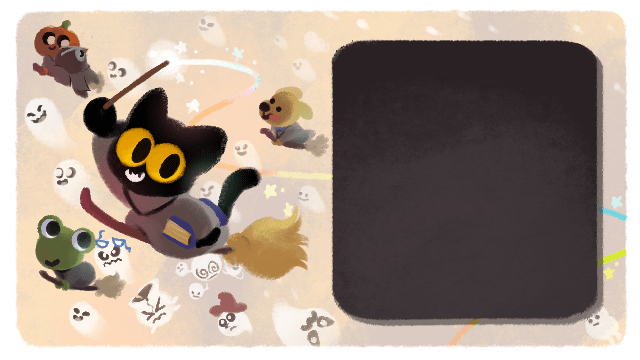
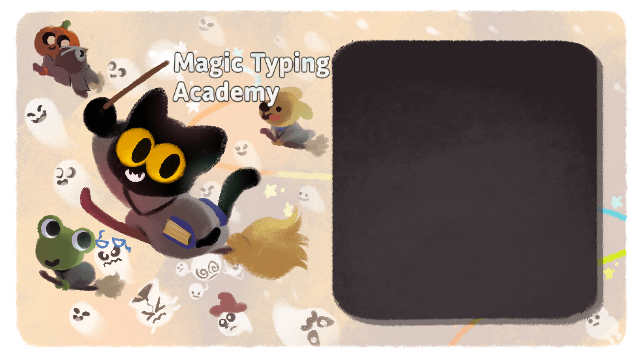
프로젝트 완성

Changed region(s): [[0.25, 0.1222, 0.5312, 0.3056]]

diff --git a/src/GamePanel.java b/src/GamePanel.java
@@ -45,7 +45,6 @@ public class GamePanel extends JPanel {
         private ImageIcon lv3Icon = new ImageIcon("images/level3.png");
         private Image level3 =lv3Icon.getImage();
         private Image currentStage;
-        private JLabel criticalLineLabel= new JLabel("크리티컬 라인");
         EntityPanel player = new EntityPanel(true);
         EntityPanel boss = new EntityPanel(false);
 
@@ -54,21 +53,11 @@ public class GamePanel extends JPanel {
         public GroundPanel() {
             this.setBackground(Color.WHITE);
             this.setLayout(null); //레이아웃 없이 배치
-            JLabel scoreLabel = scoreManager.getScoreLabel(); // 점수를 표시할 레이블 받아오기
-            // 위치, 크기 설정
-            scoreLabel.setLocation(GameFrame.frameWidth-50, 10);
-            scoreLabel.setSize(100, 30);
-
-            criticalLineLabel.setLocation(GameFrame.frameWidth - 200,207 );
-            criticalLineLabel.setSize(100,30);
-
             //엔티티 그림들 위치, 크기 설정
             boss.setBounds(GameFrame.frameWidth /2-75, 50, 150, 150);
             player.setBounds(GameFrame.frameWidth /2-75, 350, 150, 150);
 
             // 패널에 추가
-            add(scoreLabel);
-            add(criticalLineLabel);
             add(boss);
             add(player);
 
@@ -86,8 +75,15 @@ public class GamePanel extends JPanel {
                 currentStage = level3;
             }
             g.drawImage(currentStage,0, 0, getWidth(),getHeight(),this);
+            g.setColor(Color.GREEN);
+            Font defaultF = g.getFont();
+            Font f = new Font("", Font.BOLD, 20);
+            g.setFont(f);
+            g.drawString("점수: " + scoreManager.getScore(), getWidth() - 100, 30);
+            g.setFont(defaultF);
             g.setColor(Color.YELLOW);
-            g.fillRect(0,204,this.getWidth(),2);
+            g.fillRect(0,204,getWidth(),2);
+            g.drawString("크리티컬 라인", getWidth()-80,220);
             g.setColor(Color.BLACK);
 
 
@@ -426,14 +422,14 @@ public class GamePanel extends JPanel {
             Scroll.ScrollType scrollType = scroll.getScrollType(); // 타입을 받아와서
             switch (scrollType) { // 타입별로 처리
                 case Scroll.ScrollType.DAMAGE -> {// 데미지 스크롤
-                    groundPanel.boss.hit();
+                    groundPanel.boss.hit(); // 보스 피격모션 재생
+                    scoreManager.increase(); // 점수 증가
                     if(scroll.getY() < 200){ // 일정 y좌표 이하에서 맞추면
                         groundPanel.boss.damage(15); // 데미지를 더 많이 준다
                     }
                     else{
                         groundPanel.boss.damage(10);
                     }
-                    scoreManager.increase();
                 }
                 case Scroll.ScrollType.HEAL -> { // 힐 스크롤
                     scoreManager.increase(15);

diff --git a/src/ScoreManager.java b/src/ScoreManager.java
@@ -1,13 +1,10 @@
-import javax.swing.*;
 import java.io.*;
-import java.util.Comparator;
 import java.util.StringTokenizer;
 import java.util.Vector;
 
 public class ScoreManager {
     private static Vector<GameResult> leaderboard = new Vector<>(); // 게임 결과들을 저장할 벡터
     private int score = 0;
-    private JLabel scoreLabel = new JLabel("점수: " + Integer.toString(score));
 
     public ScoreManager(){
         try{
@@ -31,20 +28,16 @@ public class ScoreManager {
     }
     public void increase(int amount){ // 어마운트만큼 스코어 증가
         score += amount;
-        scoreLabel.setText("점수: " + Integer.toString(score));
     }
 
     public void increase(){ increase(10); } // 매개변수 없이 호출했을 때
-    public JLabel getScoreLabel(){
-        return scoreLabel;
-    }
+
     public int getScore(){
         return score;
     }
 
     public void resetScore(){
         score = 0;
-        scoreLabel.setText("점수: " + Integer.toString(score));
     }
     public void addScore(String name, int score, boolean isWin, String level){ // 리더보드에 결과를 추가하는 함수
         leaderboard.add(new GameResult(name, score, isWin, level));

diff --git a/src/MainPanel.java b/src/MainPanel.java
@@ -140,6 +140,7 @@ public class MainPanel extends JPanel {
     class Leaderboard extends JFrame {
         public Leaderboard(){
             super("leaderboard");
+            setLocation(gameFrame.getLocation());
             setSize(600, 400);
             setDefaultCloseOperation(JFrame.DISPOSE_ON_CLOSE); // 이 창만 닫히게 한다
             String[] columnNames = {"순위", "클리어", "이름", "점수", "난이도"}; // 열 이름
@@ -174,6 +175,7 @@ public class MainPanel extends JPanel {
 
         public manageWord(){
             super("단어 관리");
+            setLocation(gameFrame.getLocation());
             setSize(600, 400);
             setContentPane(new wordPanel());
             setVisible(true);

diff --git a/src/GameFrame.java b/src/GameFrame.java
@@ -14,7 +14,7 @@ public class GameFrame extends JFrame {
     public static final int frameHeight = 650; // 게임프레임 높이
 
     public GameFrame() {
-        super("게임");
+        super("Magic Typing Academy");
         this.setDefaultCloseOperation(JFrame.EXIT_ON_CLOSE); // 끄면 종료되게함
         setSize(frameWidth, frameHeight); // 화면 크기 설정
         setContentPane(mainPanel); // 메인화면 불러옴
